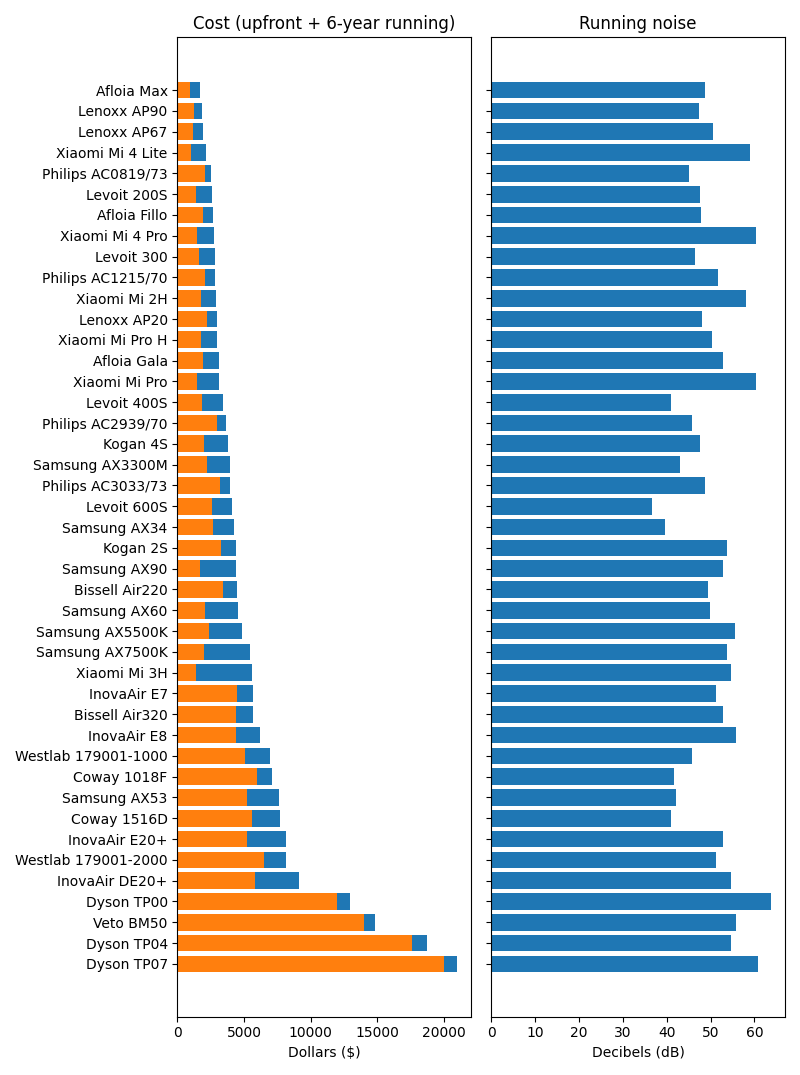
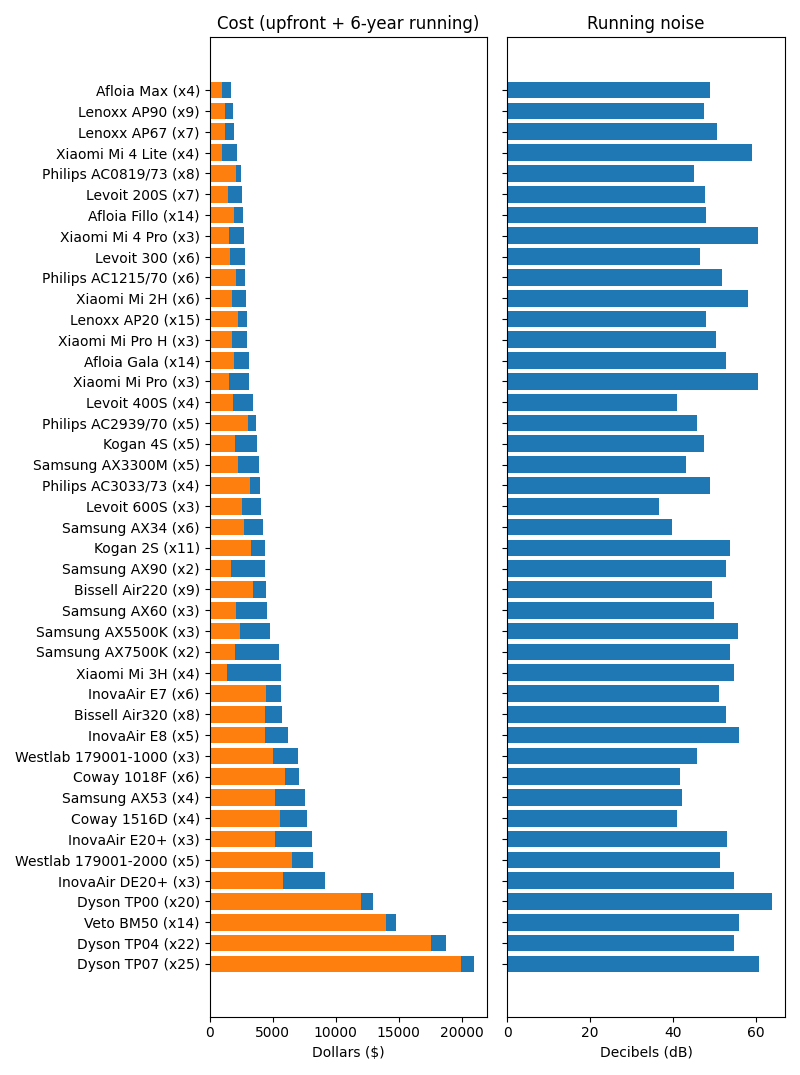
Quick push

diff --git a/aircleaning/produce.py b/aircleaning/produce.py
@@ -20,7 +20,12 @@ def cost_analysis(data, volume, quality, path=productsdir, name='default'):
 
     data = analyse.cost_analysis(data, volume, quality)
     data = data.sort_values('nominal')
-    data['fullname'] = tuple(map(' '.join, data.index))
+    data['fullname'] = tuple(map(
+        ''.join, zip(
+            map(' '.join, data.index),
+            (f' (x{n})' if n>1 else '' for n in data['nunits']),
+            )
+        ))
 
     plt.rcdefaults()
     fig, (ax1, ax2) = plt.subplots(ncols=2)
